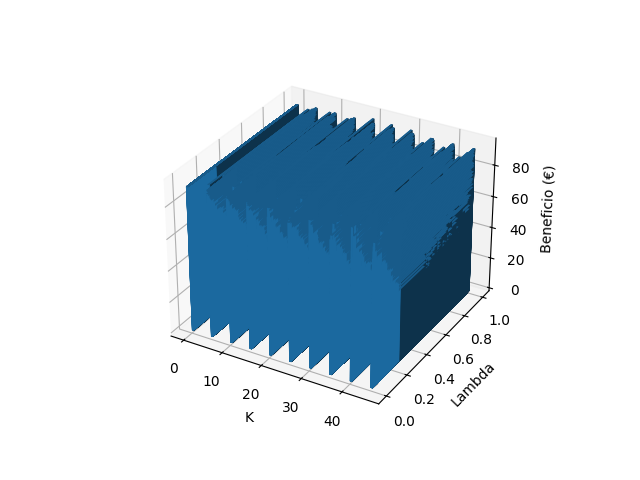
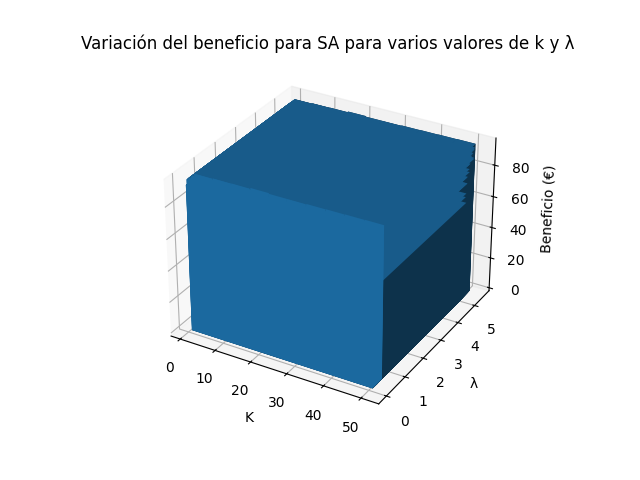
mejor initial state millorat

diff --git a/main.py b/main.py
@@ -36,7 +36,7 @@ def comparar_operadores_default(opt: int = 0, iteraciones: int = 10, semilla: Un
         tiempo_default += time.time() - inici1
         
         soluciones_expandidas_default += problema1.solutions_checked
-        beneficios_default.append(hill_climbing_1.heuristic(coste_transporte=params.coste_transporte))
+        beneficios_default.append(hill_climbing_1.heuristic())
         distancia_total_default = sum([hill_climbing_1.get_distancias_furgoneta(id_f)[2] for id_f in range(params.n_furgonetas)])
         distancias_default.append(distancia_total_default)
         
@@ -47,7 +47,7 @@ def comparar_operadores_default(opt: int = 0, iteraciones: int = 10, semilla: Un
         tiempo_modificado += time.time() - inici2
         
         soluciones_expandidas_modificado += problema2.solutions_checked
-        beneficios_modificado.append(hill_climbing_2.heuristic(coste_transporte=params.coste_transporte))
+        beneficios_modificado.append(hill_climbing_2.heuristic())
         distancia_total_modificado = sum([hill_climbing_2.get_distancias_furgoneta(id_f)[2] for id_f in range(params.n_furgonetas)])
         distancias_modificado.append(distancia_total_modificado)
 
@@ -91,7 +91,7 @@ def comparar_all_operadores(opt: int = 0, \
                         hill_climbing_1 = hill_climbing(problema)
                         tiempo += time.time() - inici
                         soluciones_expandidas += problema.solutions_checked
-                        beneficios_tmp.append(hill_climbing_1.heuristic(coste_transporte=params.coste_transporte))
+                        beneficios_tmp.append(hill_climbing_1.heuristic())
                     
                     media_beneficios.append((sum(beneficios_tmp)/iteraciones, tiempo/iteraciones, int(soluciones_expandidas/iteraciones), {k: v for k, v in operadores.items()}))
 
@@ -111,7 +111,7 @@ def comparar_all_operadores(opt: int = 0, \
             print(f"B: {exp[0]} | T: {exp[1]*1000} ms | Nº: {exp[2]} | OP: {values}\n")
 
     print(f"OPT: {opt} | ITERACIONES: {iteraciones} | HEURÍSTICO: {2 if params.coste_transporte else 1}\n")
-
+'''
 def mejor_initial_state(initial_strategies: list = [0, 1, 2], iteraciones: int = 10) -> None:
     """
     Compara los resultados de los tres métodos de generación de estados iniciales y escribe en pantalla los resultados indicando el mejor de ellos.
@@ -126,7 +126,7 @@ def mejor_initial_state(initial_strategies: list = [0, 1, 2], iteraciones: int =
             problema_bicing = ProblemaBicing(initial_state)
             final_solution_HC = hill_climbing(problema_bicing)
             
-            heuristic_value = final_solution_HC.heuristic(coste_transporte=params.coste_transporte)
+            heuristic_value = final_solution_HC.heuristic()
             
             results_accumulated[strategy] += heuristic_value
 
@@ -149,7 +149,43 @@ def mejor_initial_state(initial_strategies: list = [0, 1, 2], iteraciones: int =
     ax.set_ylabel('Coste Heurístico')
 
     plt.savefig('experimento2.png', format='png')  # Guardar gráfico como PNG
-    plt.show()
+    plt.show()'''
+
+def mejor_initial_state(iteraciones: int = 10, semilla_rng: int = random.randint(0, 1000), operadores_activos: dict = {}) -> None:
+    # Diccionario de resultados para cada estrategia (0, 1, y 2)
+    results_accumulated = {0: [], 1: [], 2: []}  
+
+    for _ in range(iteraciones):
+        # Realizamos 5 experimentos para las estrategias 0 y 1
+        for strategy in [0, 1]:
+            rng = random.Random(semilla_rng)
+
+            resultados_estrategias = []
+            for _ in range(5):
+                semilla_initial_state = rng.randint(0, 1000)
+                initial_state = generate_initial_state(opt=strategy, semilla=semilla_initial_state, operadores_activos=operadores_activos)
+                initial_state.heuristic()
+                problema_bicing = ProblemaBicing(initial_state)
+                final_solution_HC = hill_climbing(problema_bicing)
+                beneficio_obtenido = final_solution_HC.heuristic(coste_transporte=params.coste_transporte)
+                resultados_estrategias.append(beneficio_obtenido)
+            results_accumulated[strategy].append(np.mean(resultados_estrategias))  # Media de los 5 experimentos
+        
+        # Realizamos un experimento para la estrategia 2
+        initial_state = generate_initial_state(opt=2, operadores_activos=operadores_activos)
+        problema_bicing = ProblemaBicing(initial_state)
+        final_solution_HC = hill_climbing(problema_bicing)
+        beneficio_obtenido = final_solution_HC.heuristic(coste_transporte=params.coste_transporte)
+        results_accumulated[2].append(beneficio_obtenido)  
+
+    # Calculamos las medias
+    results_average = {strategy: np.mean(results) for strategy, results in results_accumulated.items()}
+
+    print(f"\nHEURÍSTICO {2 if params.coste_transporte else 1} | {iteraciones} ITERACIONES:")
+    for strategy, avg in results_average.items():
+        print(f"   * OPT: {strategy} --> BENEFICIO MEDIO: {avg} {'[BEST]' if avg == max(results_average.values()) else ''}")
+
+
 
 def comparar_resultados_HC_SA(HC: bool = True, SA: bool = True, iterations: int = 10, opt: int = 2, schedule_sa = None, beneficios_bool: bool = True, tiempos_bool: bool = True, distancias_bool: bool = True, ocultar_progreso: bool = False) -> Union[None, list]:
     """
@@ -168,7 +204,7 @@ def comparar_resultados_HC_SA(HC: bool = True, SA: bool = True, iterations: int 
         
         # Generación del estado inicial
         initial_state = generate_initial_state(opt=opt)
-        initial_state.heuristic(coste_transporte=params.coste_transporte)
+        initial_state.heuristic()
         problema_bicing = ProblemaBicing(initial_state)
 
         # Experimento con Hill Climbing
@@ -176,7 +212,7 @@ def comparar_resultados_HC_SA(HC: bool = True, SA: bool = True, iterations: int 
             inicio_HC = time.time()
             resultado_HC = hill_climbing(problema_bicing)
             tiempos_HC.append((time.time() - inicio_HC)*1000)
-            beneficios_HC.append(resultado_HC.heuristic(coste_transporte=params.coste_transporte))
+            beneficios_HC.append(resultado_HC.heuristic())
             distancias_HC.append(sum([resultado_HC.get_distancias_furgoneta(id_f)[2] for id_f in range(params.n_furgonetas)]))
 
         # Experimento con Simulated Annealing
@@ -185,7 +221,7 @@ def comparar_resultados_HC_SA(HC: bool = True, SA: bool = True, iterations: int 
             inicio_SA = time.time()
             resultado_SA = simulated_annealing(problema_bicing, schedule=schedule_sa)
             tiempos_SA.append((time.time() - inicio_SA)*1000)
-            beneficios_SA.append(resultado_SA.heuristic(coste_transporte=params.coste_transporte))
+            beneficios_SA.append(resultado_SA.heuristic())
             distancias_SA.append(sum([resultado_SA.get_distancias_furgoneta(id_f)[2] for id_f in range(params.n_furgonetas)]))
 
     # Generación de los box plots
@@ -233,11 +269,11 @@ def comparar_resultados_HC_SA(HC: bool = True, SA: bool = True, iterations: int 
 def encontrar_parametros_SA(opt: int = 2, iteraciones_por_valor: int = 10, operadores_activos: dict = {operator: True for operator in params.operadores_modificables}) -> tuple:
     resultados_SA = []
 
-    min_k, max_k, inc_k = 0, 50, 5
-    min_lam, max_lam, inc_lam = 0, 0.5, 0.0005
-    limit = 10
+    min_k, max_k, inc_k = 1, 50, 5
+    min_lam, max_lam, inc_lam = 0, 0.5, 0.01
+    limit = 100
 
-    num_valores_comprobados = ((max_k-min_k)/inc_k) * ((max_lam-min_lam)/inc_lam)
+    num_valores_comprobados = round(((max_k-min_k)/inc_k) * ((max_lam-min_lam)/inc_lam))
     num_valor = 0
     for k in np.arange(min_k, max_k, inc_k):
         for lam in np.arange(min_lam, max_lam, inc_lam):
@@ -257,26 +293,26 @@ def encontrar_parametros_SA(opt: int = 2, iteraciones_por_valor: int = 10, opera
     best_k, best_lambda = mejor_resultado[1], mejor_resultado[2]
 
     # Generar el gráfico 3D
-
-    # Desempaquetar los valores en listas separadas
-    beneficio_values, k_values, lambda_values = zip(*resultados_SA)
-
-    # Convertir las listas en arrays de NumPy para manipulación eficiente
-    k_values = np.array(k_values)
-    lambda_values = np.array(lambda_values)
-    beneficio_values = np.array(beneficio_values)
-
     fig = plt.figure()
     ax = fig.add_subplot(111, projection='3d')
 
-    # Utilizar los valores de 'k', 'lambda' y 'beneficio' para el gráfico de barras 3D
-    ax.bar3d(k_values, lambda_values, np.zeros_like(beneficio_values), 0.5, 0.5, beneficio_values, shade=True)
+    # Extract k, lambda and results from resultados_SA
+    ks = [res[1] for res in resultados_SA]
+    lambdas = [res[2] for res in resultados_SA]
+    results = [res[0] for res in resultados_SA]
 
-    # Etiquetas para los ejes
+    # Assuming results are positive, you can set bottom to 0 for simplicity.
+    bottom = np.zeros_like(results)
+
+    # Define bar width and depth. You may need to adjust these depending on the granularity of your data.
+    width = depth = 5
+
+    ax.bar3d(ks, lambdas, bottom, width, depth, results)
+
     ax.set_xlabel('K')
-    ax.set_ylabel('Lambda')
+    ax.set_ylabel('λ')
     ax.set_zlabel('Beneficio (€)')
-
+    ax.set_title('Variación del beneficio para SA para varios valores de k y λ')
     plt.savefig("parametros_SA.png")
     plt.close()
 
@@ -290,7 +326,7 @@ if __name__ == "__main__":
 
 # Pruebas individuales
     """initial_state: EstadoBicing = generate_initial_state(opt=2)
-    initial_state.heuristic(coste_transporte=params.coste_transporte)
+    initial_state.heuristic()
     problema_bicing = ProblemaBicing(initial_state)
     tiempo_inicio = time.time()
     final_solution_HC = hill_climbing(problema_bicing)
@@ -316,7 +352,7 @@ if __name__ == "__main__":
     #comparar_all_operadores(opt=0, semilla=random.randint(0, 1_000_000), iteraciones=10)
 
 # Experimento 2 ----------------------------------------------------------------------------------
-    #mejor_initial_state(iteraciones=100)
+    mejor_initial_state(iteraciones=50, semilla_rng=50)
 
 # Experimento 3 ----------------------------------------------------------------------------------
     k, lam, limit = encontrar_parametros_SA(opt=2, iteraciones_por_valor=1)

diff --git a/state_bicing.py b/state_bicing.py
@@ -182,7 +182,7 @@ class EstadoBicing(object):
         balance_estaciones = self.__calcular_balance_estaciones()
         return balance_rutas + balance_estaciones
 
-    def heuristic(self, coste_transporte: bool) -> float:
+    def heuristic(self, coste_transporte: bool = params.coste_transporte) -> float:
         self.__restaurar_estaciones()
         for furgoneta in self.lista_furgonetas:
             self.__realizar_ruta(furgoneta.id)
